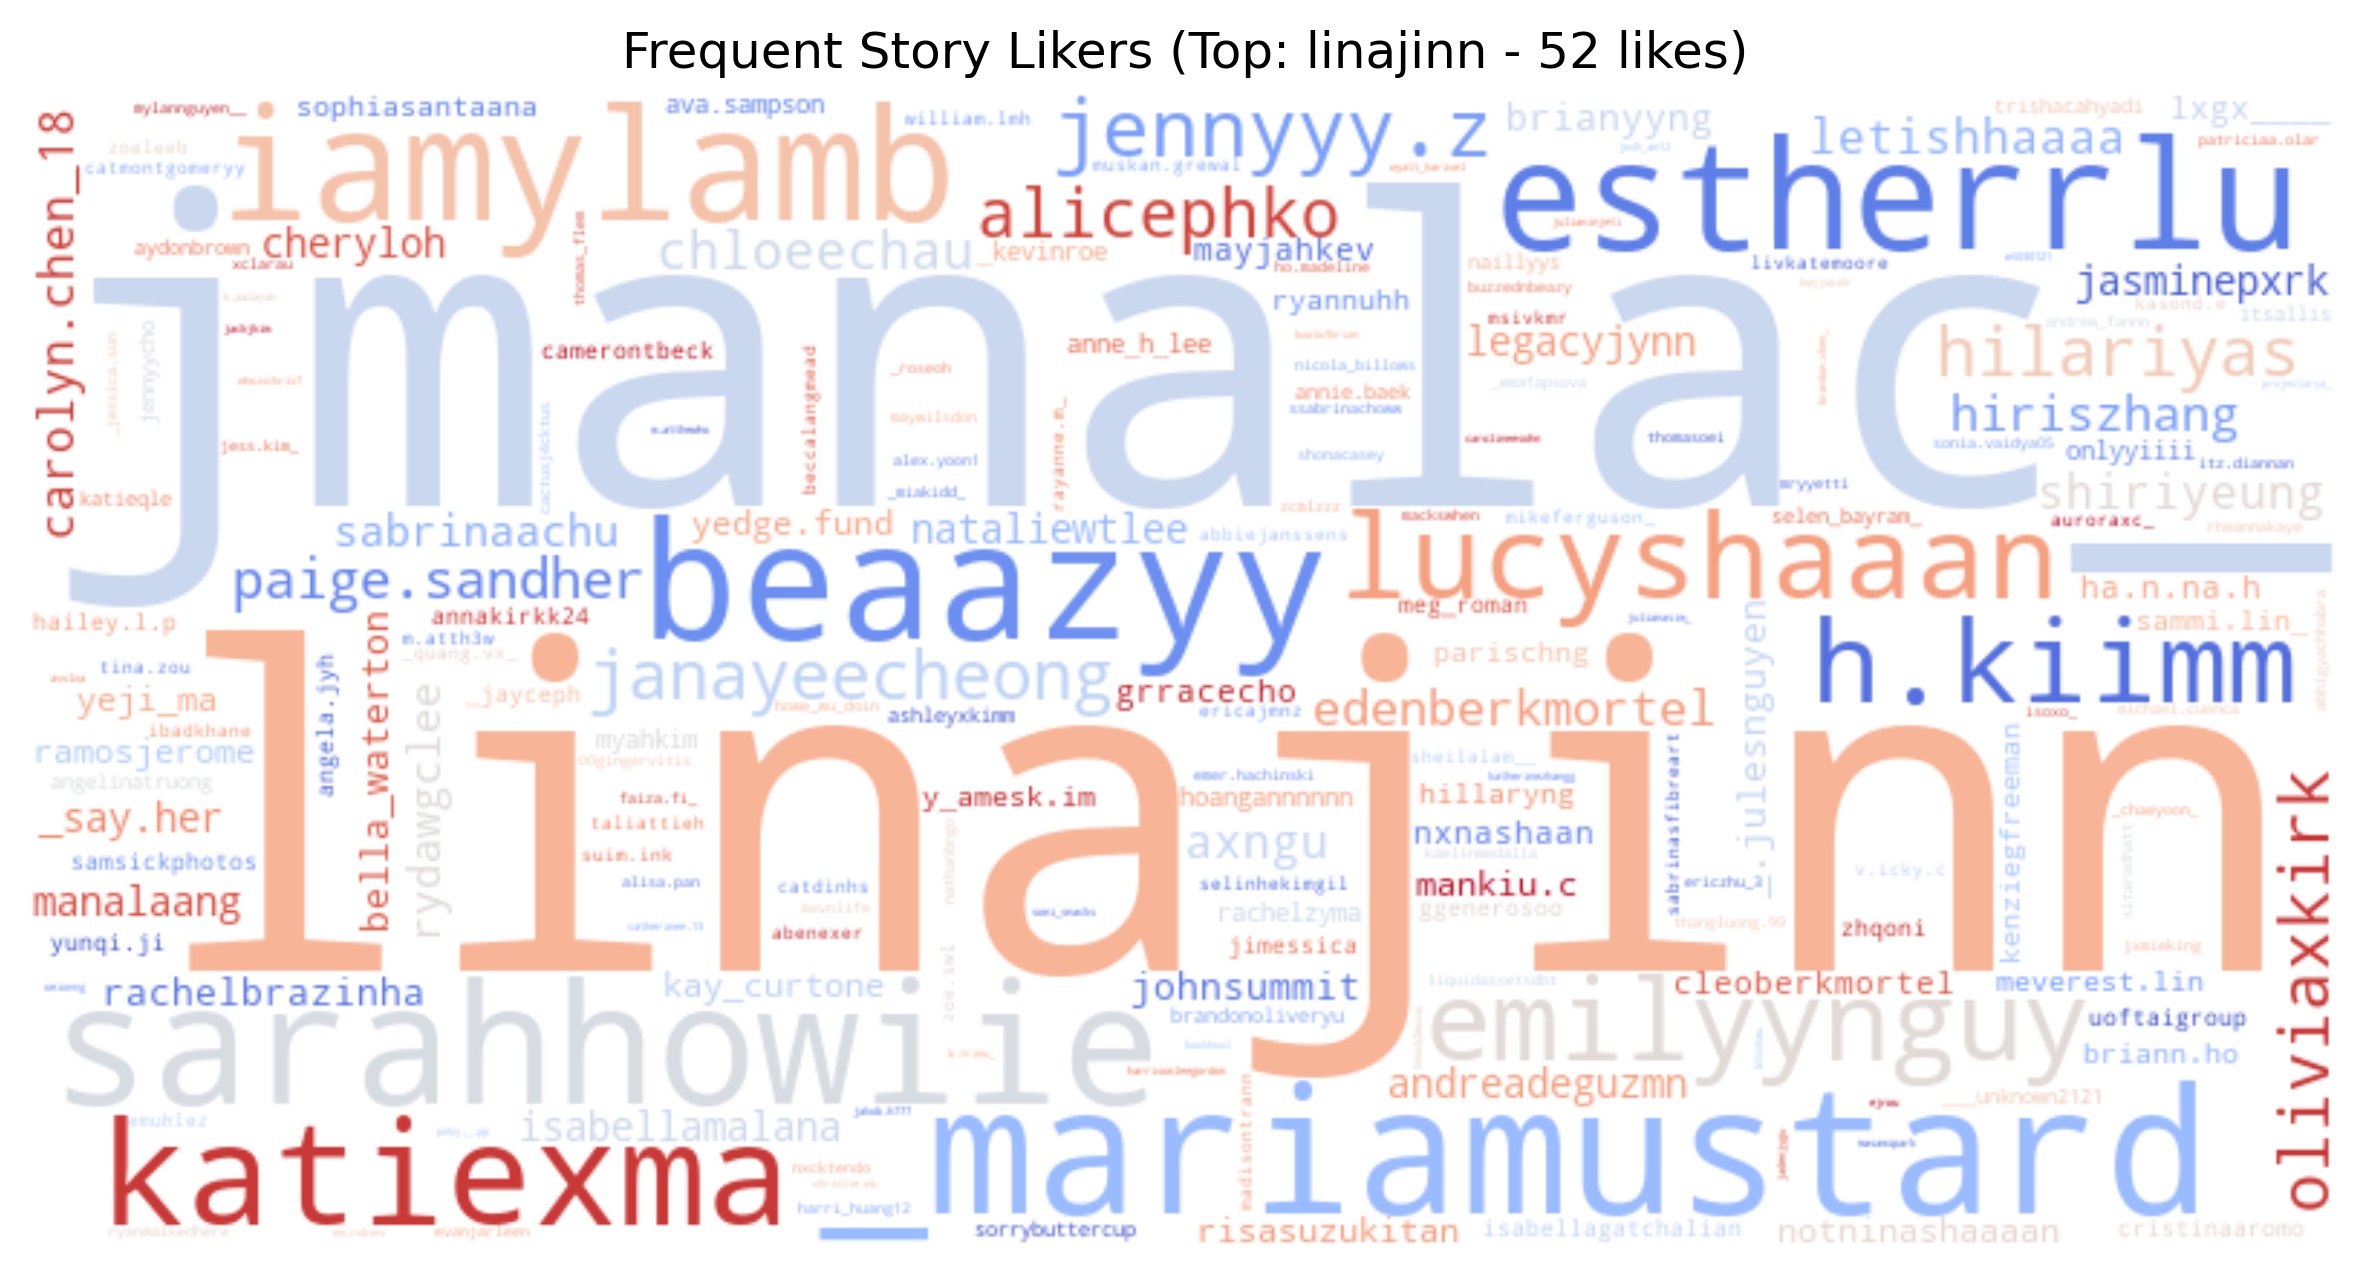
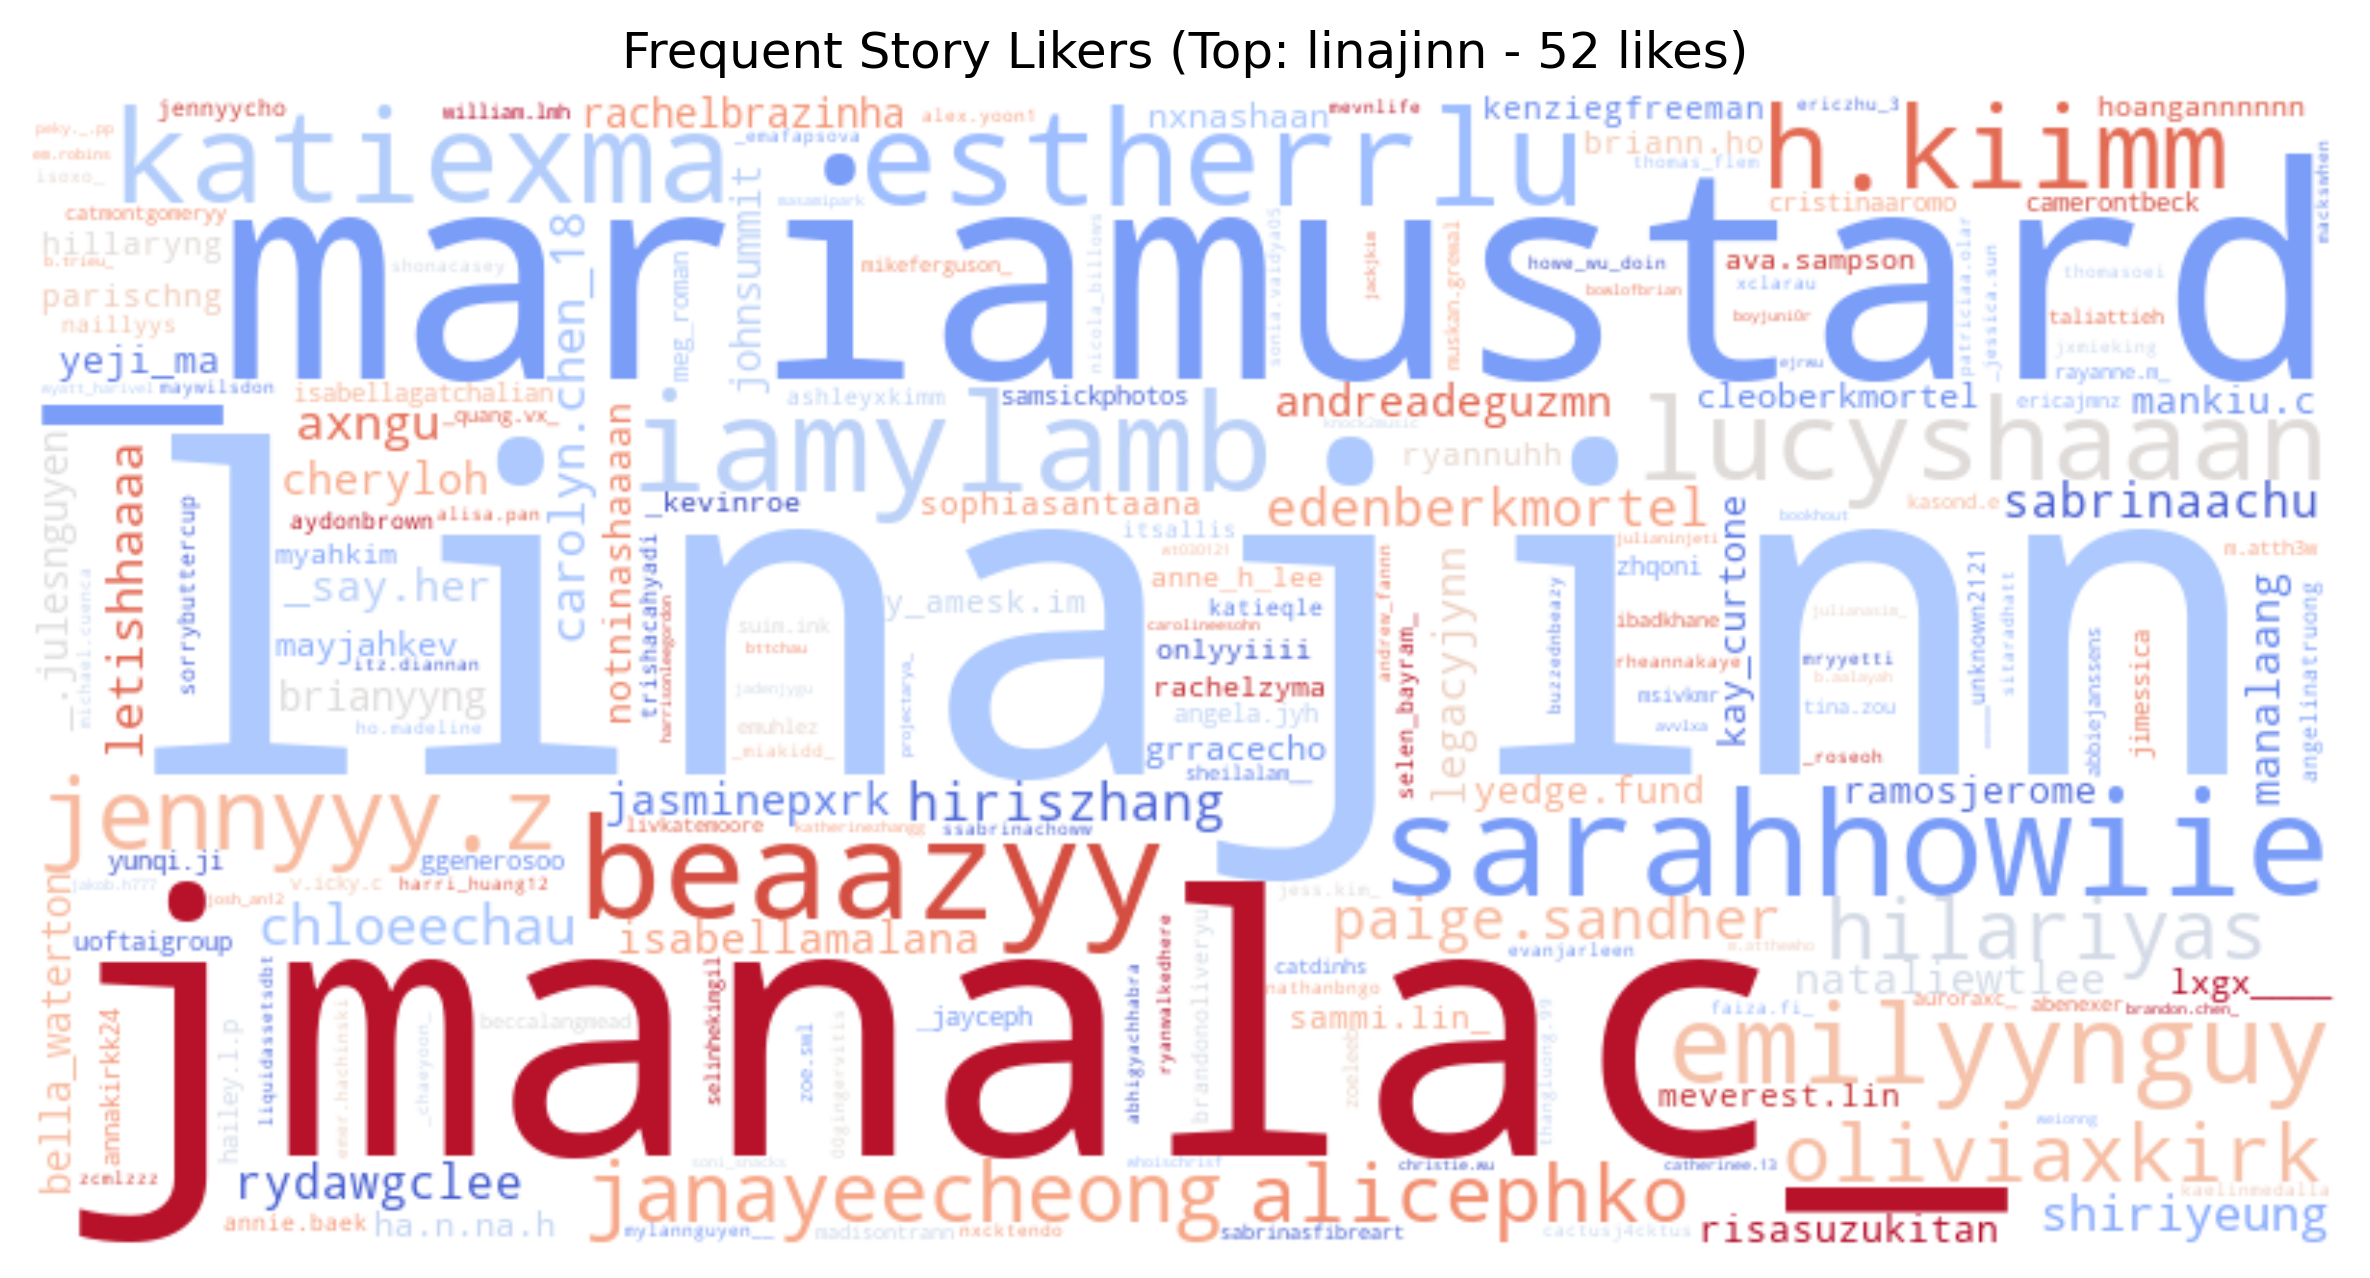
made all the buttons work

diff --git a/ui/project_ui.py b/ui/project_ui.py
@@ -42,8 +42,7 @@ class InstagramArchiveApp:
 
     def create_script_buttons(self):
         script_names = {
-            "Run Story Likes": "../to_refactor/sc_story_likes_visualizations.py",
-            "Run Summary Stats": "../to_refactor/summary_stats.py",
+            "Run Story Likes": "../to_refactor/story_likes_visualizations.py",
             "Run Liked Posts": "../to_refactor/liked_posts.py",
             "Run Word Cloud Topics": "../to_refactor/wordcloud_topics.py",
         }
@@ -59,10 +58,18 @@ class InstagramArchiveApp:
         if not self.folder_selected:
             messagebox.showwarning("Warning", "Please select a folder first.")
             return
+
+        # Mapping of scripts to their output image
+        output_images = {
+            "../to_refactor/story_likes_visualizations.py": "../images/story_likes_visualization.png",
+            "../to_refactor/liked_posts.py": "../images/liked_posts_wordcloud.png",
+            "../to_refactor/wordcloud_topics.py": "../images/wordcloud_topics.png",
+        }
+
         try:
             subprocess.run([sys.executable, script_name, self.folder_selected], check=True)
             messagebox.showinfo("Success", f"Executed {script_name} successfully!")
-            self.display_visualization("../images/story_likes_visualization.png")
+            self.display_visualization(output_images.get(script_name, ""))
         except subprocess.CalledProcessError as e:
             messagebox.showerror("Error", f"Error executing {script_name}: {e}")
 

diff --git a/to_refactor/wordcloud_topics.py b/to_refactor/wordcloud_topics.py
@@ -3,7 +3,7 @@ import matplotlib.pyplot as plt
 from wordcloud import WordCloud
 
 # Load the JSON file
-with open("recommended_topics.json", "r", encoding="utf-8") as file:
+with open("../test_data/recommended_topics.json", "r", encoding="utf-8") as file:
     data = json.load(file)
 
 # Extract topic names
@@ -17,10 +17,23 @@ topics = [
 text = " ".join(topics)
 
 # Generate word cloud
-wordcloud = WordCloud(width=800, height=400, background_color="white").generate(text)
+wc = WordCloud(width=800, height=400, background_color="white").generate(text)
+
+output_path = "../images/wordcloud_topics.png"
 
 # Print the word cloud
 plt.figure(figsize=(10, 5))
-plt.imshow(wordcloud, interpolation="bilinear")
+plt.imshow(wc, interpolation="bilinear")
 plt.axis("off")
+plt.show()
+
+# Save the visualization
+plt.figure(figsize=(10, 5))
+plt.imshow(wc, interpolation="bilinear")
+plt.axis("off")
+
+# Save as PNG
+plt.savefig(output_path, dpi=300, bbox_inches="tight")
+print(f"Visualization saved to: {output_path}")
+
 plt.show()

diff --git a/to_refactor/liked_posts.py b/to_refactor/liked_posts.py
@@ -38,7 +38,13 @@ def most_liked_wordcloud():
     plt.show()
 
     # Save the figure
-    plt.savefig("output/liked_posts_wordcloud.png")
+    plt.figure(figsize=(12, 8))
+    plt.imshow(wordcloud, interpolation='bilinear')
+    plt.axis("off")
+    plt.title("Accounts You Liked Most")
+    plt.tight_layout()
+
+    plt.savefig("../images/liked_posts_wordcloud.png")
     plt.close()
 
     print("Wordcloud saved to output/liked_posts_wordcloud.png")
@@ -50,7 +56,7 @@ def load_data():
     """
     # Load JSON file
     global titles, title_counts
-    with open("data/liked_posts.json", "r", encoding="utf-8") as file:
+    with open("../test_data/liked_posts.json", "r", encoding="utf-8") as file:
         data = json.load(file)
 
     # Extract titles (media owners) from the data
@@ -70,7 +76,6 @@ def load_data():
     titles = df
     # Remove unknown entries
     title_counts = title_counts[title_counts["Title"] != "Unknown"]
-    
 
 def main():
     load_data()

diff --git a/to_refactor/story_likes_visualizations.py b/to_refactor/story_likes_visualizations.py
@@ -1,3 +1,15 @@
+'''
+Preservr Data Visualizations - Story Likes
+Author: Shirley Chen
+Description: This module provides visualization tools for analyzing and displaying
+             story likes data for the Preservr project. It processes story likes datasets
+             and generates a word cloud to visualize which users had interacted most with
+             the user's stories
+Input: Liked posts data files stored in the 'data' directory
+Output: Visualization files saved to the 'output' directory
+Date: 2025-03
+'''
+
 import json
 import matplotlib.pyplot as plt
 from collections import Counter
